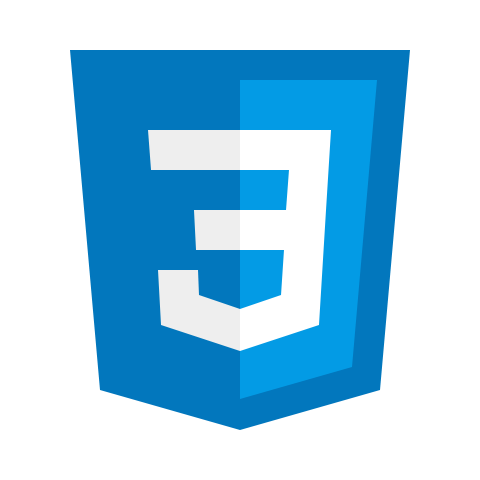
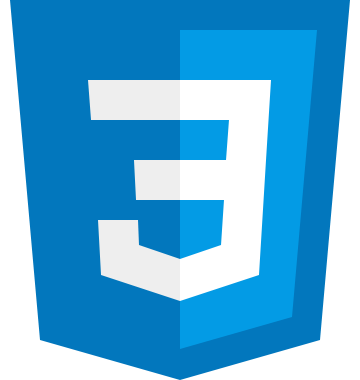
skills images updated

diff --git a/css/stylesheet.css b/css/stylesheet.css
@@ -82,6 +82,18 @@ p {
     font-size: 20px;
 }
 
+.gridSkills {
+    display: grid;
+    grid-template-columns: 50% 50%;
+    grid-gap: 10px;
+    padding: 10px;
+    text-align: center;
+}
+div.gridSkills img {
+    width: 100px;
+    height: 100px;
+}
+
 #skills {
     text-align: center;
 }
@@ -95,15 +107,6 @@ p {
     grid-template-columns: auto auto;
     grid-gap: 10px;
     padding: 10px;
-    text-align: center;
-}
-
-.gridSkills {
-    display: grid;
-    grid-template-columns: auto auto;
-    grid-gap: 10px;
-    padding: 10px;
-    width: 50px;
     text-align: center;
 }
 
